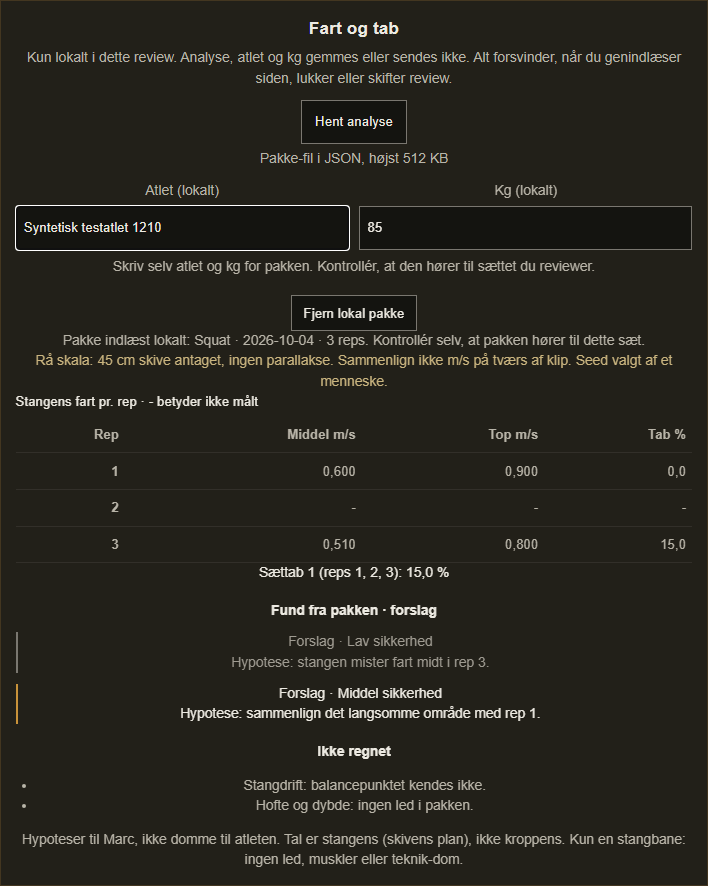
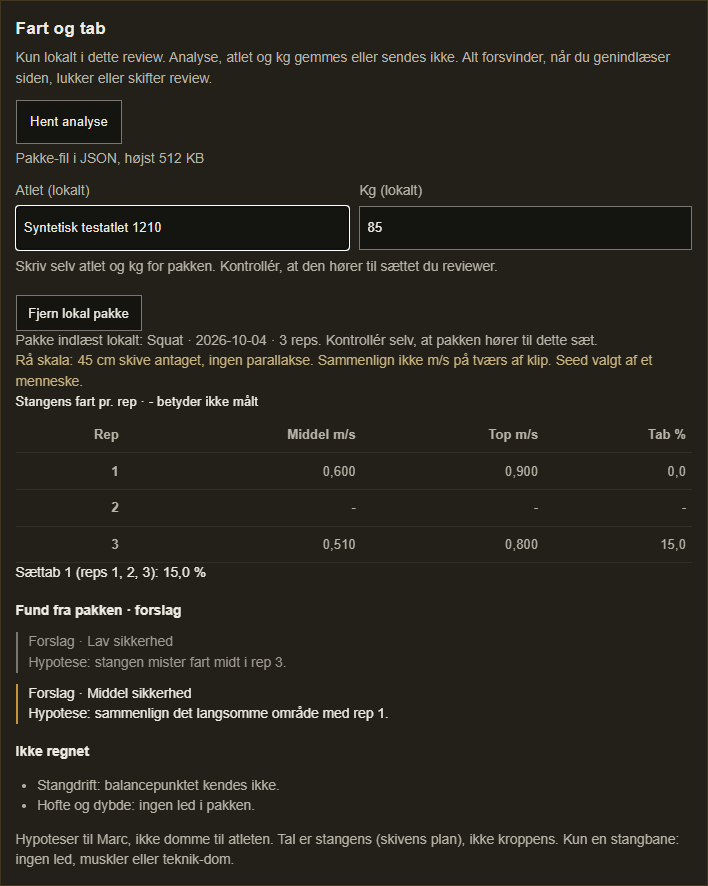
Ordre 1420: review-pakke venstrestillet tekst paa 390

diff --git a/src/dashboard/AnalysePakkeReview.jsx b/src/dashboard/AnalysePakkeReview.jsx
@@ -43,7 +43,7 @@ export default function AnalysePakkeReview() {
     setKg('')
   }
   return (
-    <section aria-label="Lokal analyse-pakke" style={{ marginTop: '0.9rem', border: '1px solid rgba(200,146,58,0.2)', background: 'rgba(200,146,58,0.035)', padding: '0.8rem', color: '#b8b4a8', fontSize: '0.75rem', lineHeight: 1.5, overflowWrap: 'anywhere' }}>
+    <section aria-label="Lokal analyse-pakke" style={{ marginTop: '0.9rem', border: '1px solid rgba(200,146,58,0.2)', background: 'rgba(200,146,58,0.035)', padding: '0.8rem', color: '#b8b4a8', fontSize: '0.75rem', lineHeight: 1.5, overflowWrap: 'anywhere', textAlign: 'left' }}>
       <h3 style={{ color: '#edeae2', fontSize: '0.95rem', margin: '0 0 0.4rem' }}>Fart og tab</h3>
       <p style={{ margin: '0 0 0.6rem' }}>Kun lokalt i dette review. Analyse, atlet og kg gemmes eller sendes ikke. Alt forsvinder, når du genindlæser siden, lukker eller skifter review.</p>
       <button type="button" onClick={() => filInput.current?.click()} style={{ minHeight: 44, background: '#141410', border: '1px solid #7a7770', color: '#edeae2', padding: '0.45rem 0.75rem' }}>Hent analyse</button>
